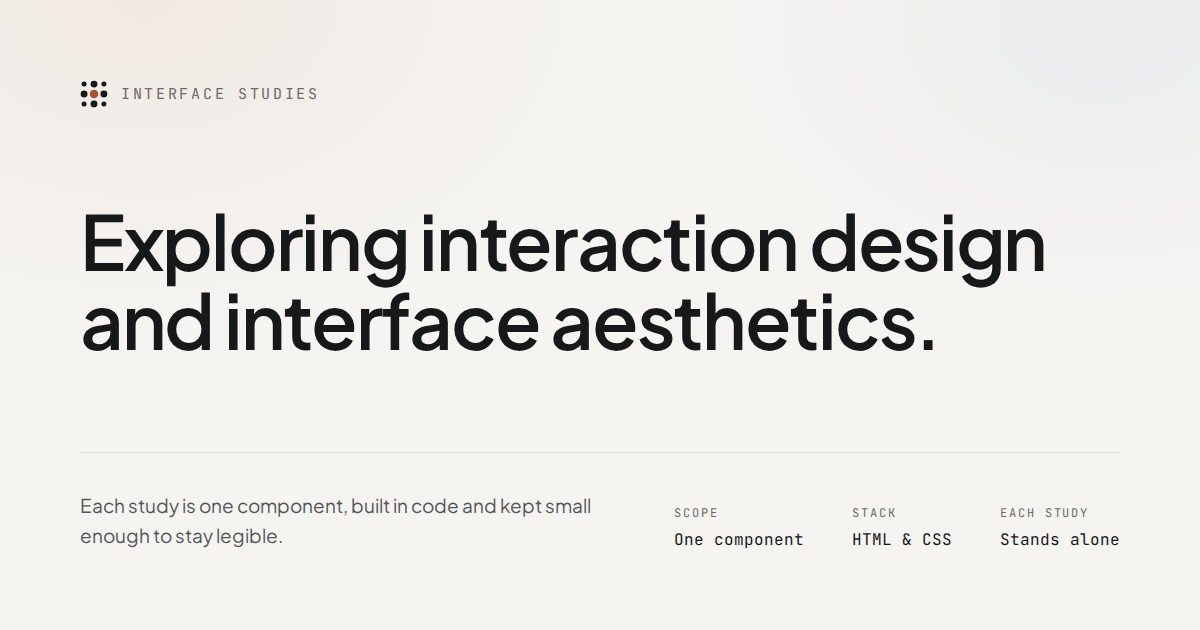
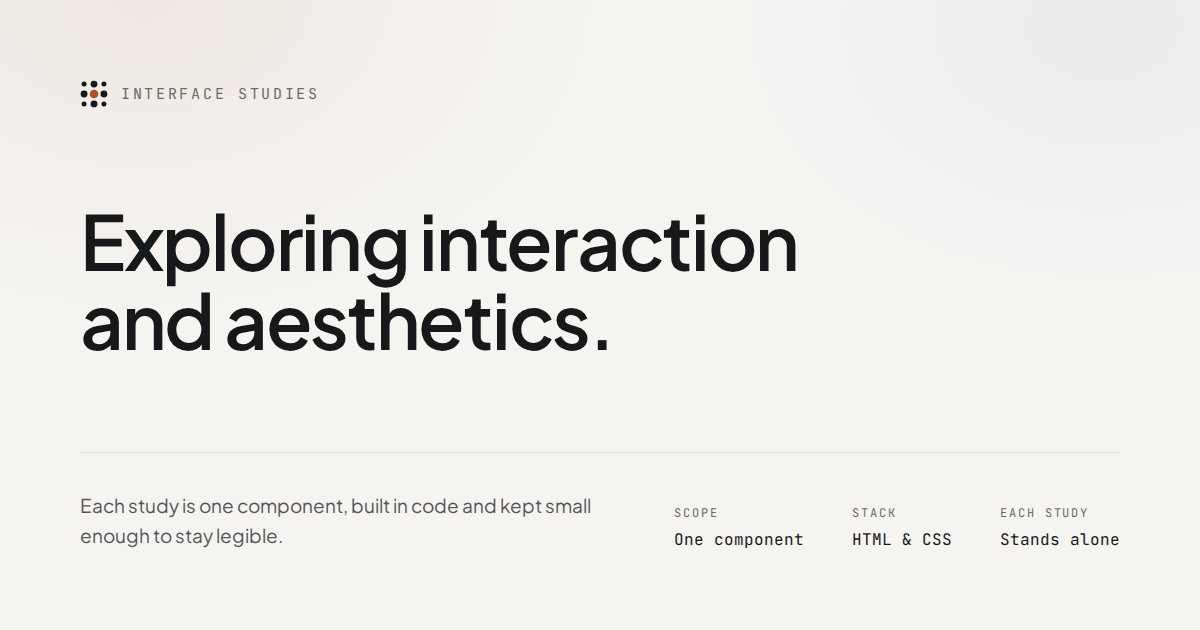
Shorten the headline to the two words it needed
"Exploring interaction design and interface aesthetics." was 54
characters against the 34 the masthead was set for, and it ran to three
lines, which put the first card 67px further down the page.

The two words that went are the two the page says elsewhere.
"Interface" is the wordmark sitting directly above the h1, so the
headline was the second time a reader met it in twelve millimetres.
"Design" was carrying nothing beside "interaction", which is already the
name of a design discipline.

    Exploring interaction and aesthetics.

37 characters, two lines, and the first card is back to 191px above an
810px fold — the same as before any of this, so .head__title's 18ch
needs no widening after all.

The Danish loses its soft hyphens with it: they were there for
'interfacedesign' at a 36px hero, and 'Udforskning af interaktion og
æstetik' holds no word long enough to need one. The note above the table
keeps the reasoning for the next compound that does.

Measured at 1440, 1280, 320 and a 390 touch profile: two lines in both
languages, no page errors, no horizontal overflow, one "open" per lede.
og.html and og.png follow, as they have to.

Changed region(s): [[0.185, 0.3317, 0.8942, 0.573]]

diff --git a/index.html b/index.html
@@ -6,7 +6,7 @@
     <title>Interface Studies</title>
     <meta
       name="description"
-      content="Exploring interaction design and interface aesthetics. Each study is one component, built in code and kept small enough to stay legible." />
+      content="Exploring interaction and aesthetics. Each study is one component, built in code and kept small enough to stay legible." />
 
     <link rel="preconnect" href="https://fonts.googleapis.com" />
     <link rel="preconnect" href="https://fonts.gstatic.com" crossorigin />
@@ -30,7 +30,7 @@
     <meta property="og:site_name" content="Interface Studies" />
     <meta
       property="og:title"
-      content="Interface Studies — interaction design and interface aesthetics" />
+      content="Interface Studies — exploring interaction and aesthetics" />
     <meta
       property="og:description"
       content="Each study is one component, built in code and kept small enough to stay legible. Open one for the decisions behind it." />
@@ -39,7 +39,7 @@
     <meta property="og:image:height" content="630" />
     <meta
       property="og:image:alt"
-      content="Interface Studies: exploring interaction design and interface aesthetics." />
+      content="Interface Studies: exploring interaction and aesthetics." />
     <meta name="twitter:card" content="summary_large_image" />
     <meta name="twitter:creator" content="@LouisDyrhauge" />
 
@@ -137,7 +137,7 @@
         Interface Studies
       </p>
       <h1 class="head__title" data-i18n="head.title">
-        Exploring interaction design and interface aesthetics.
+        Exploring interaction and aesthetics.
       </h1>
       <!-- The closing sentence tells you how to work the rail, and that is
          not the same instruction on a phone as on a laptop, so it is written

diff --git a/index.js b/index.js
@@ -44,15 +44,17 @@
 
   const COPY = {
     da: {
-      // Danish builds compounds, and 'interfacedesign' is one word at a 36px
-      // hero — wider than a 320px line has to give, which is a sideways
-      // scrollbar across the whole page. The soft hyphen is the compound's own
-      // seam: invisible until the line actually needs it, breaking where a
-      // Danish reader would break the word, and needing no hyphenation
-      // dictionary, which is what `hyphens: auto` would be waiting on. A new
-      // long compound in this table wants one too.
-      'head.title': 'Udforskning af interak\u00ADtions\u00ADdesign og '
-        + 'interface\u00ADæstetik.',
+      // Danish builds compounds, and one of them at a 36px hero can be wider
+      // than a 320px line has to give — a sideways scrollbar across the whole
+      // page. The headline carried \u00AD for that reason while it read
+      // 'interfacedesign'; the current one has no word long enough to need it,
+      // and .head__title's overflow-wrap is the backstop either way. A new
+      // long compound in this table wants one: the soft hyphen is the
+      // compound's own seam, invisible until the line needs it, breaking
+      // where a Danish reader would break the word, and needing no
+      // hyphenation dictionary, which is what `hyphens: auto` would be
+      // waiting on.
+      'head.title': 'Udforskning af interaktion og æstetik.',
       'head.lede': 'Hvert studie er én komponent, bygget i kode og holdt så '
         + 'lille, at den er til at gennemskue.',
       'head.ledeHint': 'Hold musen over et kort for at afspille det, eller åbn '

diff --git a/og.html b/og.html
@@ -206,7 +206,7 @@
       </p>
 
       <!-- Word for word the index's h1. -->
-      <h1 class="title">Exploring interaction design and interface aesthetics.</h1>
+      <h1 class="title">Exploring interaction and aesthetics.</h1>
 
       <div class="rule"></div>
 

diff --git a/README.md b/README.md
@@ -1,7 +1,7 @@
 # Interface studies
 
-Exploring interaction design and interface aesthetics. Each study is one
-component, built in code and kept small enough to stay legible. Some start from
+Exploring interaction and aesthetics. Each study is one component, built in
+code and kept small enough to stay legible. Some start from
 an interface seen elsewhere and keep its construction rather than its content;
 others are built from scratch against an original Figma design.
 
